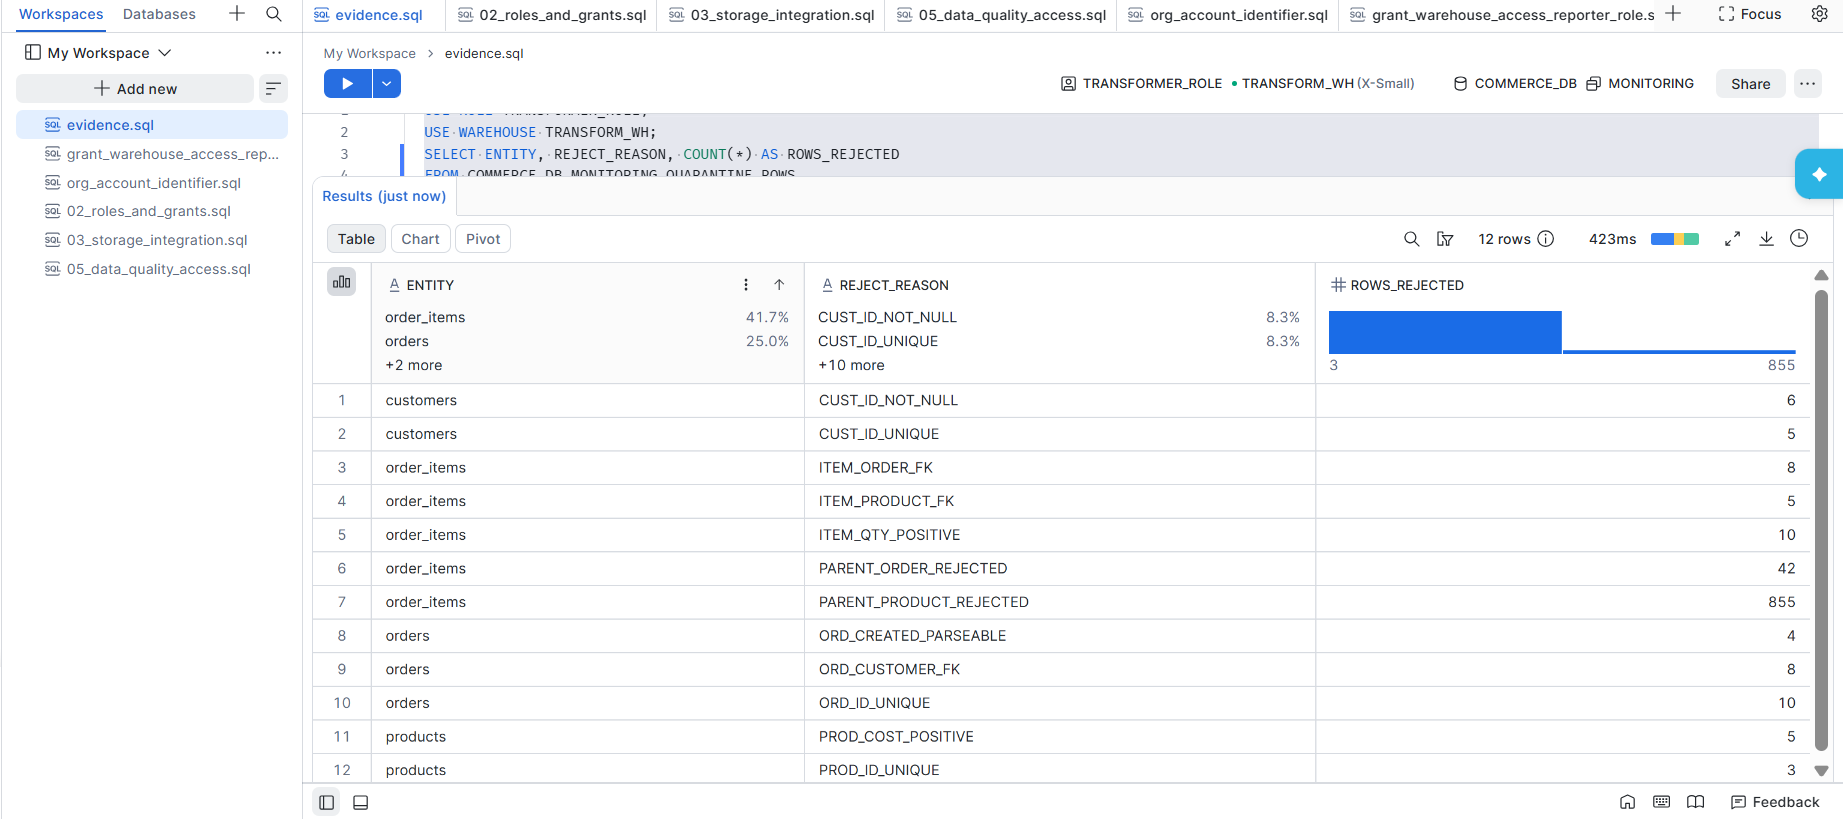
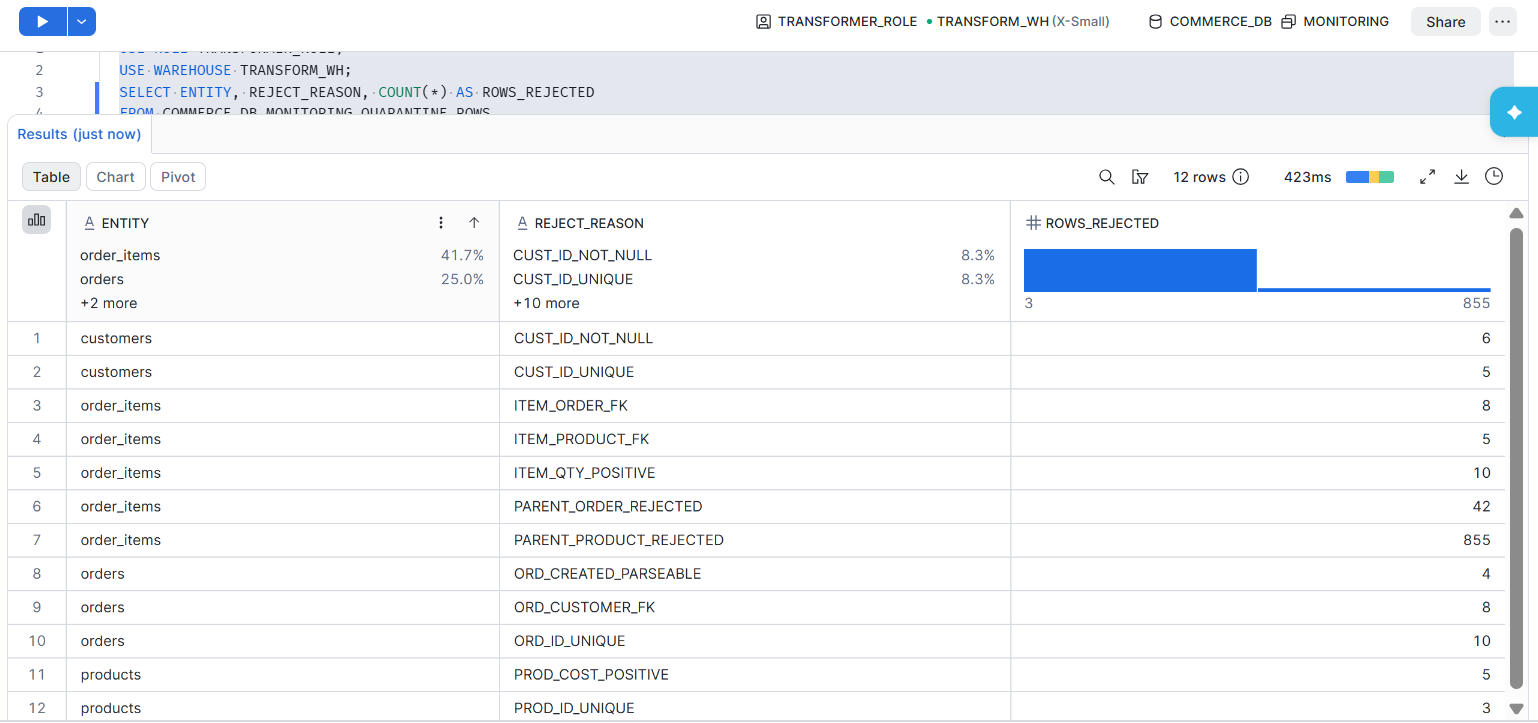
Improve README and evidence screenshots

diff --git a/README.md b/README.md
@@ -1,81 +1,203 @@
-# Commerce ELT data quality platform
+<div align="center">
 
-A data quality and governance framework for a commerce warehouse, built with dbt and run on Snowflake.
+# Commerce ELT Data Quality Platform
 
-Every rule has an owner, a severity and a business reason. Bad rows are quarantined with the rule that rejected them. Tables are only trusted after their gates pass. A rule that could not run counts as a failure, because a check that did not run proves nothing.
+**A governed data quality framework on Snowflake and dbt, with rules that have owners, bad rows that keep their reasons, and checks that are themselves tested.**
 
-![Data quality dashboard from the Snowflake run](screenshots/snowflake/06_dashboard.png)
+[![CI](https://github.com/gbadedata/commerce-elt-platform/actions/workflows/ci.yml/badge.svg)](https://github.com/gbadedata/commerce-elt-platform/actions/workflows/ci.yml)
+![Snowflake](https://img.shields.io/badge/Snowflake-live%20run-29B5E8?logo=snowflake&logoColor=white)
+![dbt](https://img.shields.io/badge/dbt-1.12-FF694B?logo=dbt&logoColor=white)
+![Python](https://img.shields.io/badge/Python-3.11%2B-3776AB?logo=python&logoColor=white)
 
-## Status
+[Results](#results) · [Architecture](#architecture) · [Rules](#rules) · [Governance](#governance) · [Design decisions](#design-decisions) · [Limits](#limits-and-next-steps) · [Run it](#run-it)
 
-| What | State |
-|---|---|
-| Rules, quarantine, reconciliation, catalog and dashboard | Working on Snowflake and on DuckDB |
-| Run on a live Snowflake account | Done on a trial account on 5 November 2026. [Results below](#snowflake-run) |
-| End-to-end tests | Run on DuckDB, in CI on every push, with no secrets |
-| Snowflake alert in `sql/monitoring/dq_alert.sql` | Written, not yet run |
+</div>
 
-The data is synthetic. No real customer or business data is involved.
+A pipeline that finishes has not proved its data is right. This project treats a green run as a claim that needs evidence. Each rule has an owner, a severity and a business reason. Rejected rows are kept with the rule that rejected them. A check that could not run counts as a failure, not a pass.
 
-## How it works
+| 28 | 144 of 144 | 0 | 9 of 9 |
+|:---:|:---:|:---:|:---:|
+| rules across nine dimensions | planted defect rows found | false positives | gates and reconciliations passed on the defect run |
+
+![Data quality dashboard from the Snowflake run](screenshots/snowflake/dashboard_hero.png)
+
+<sub>Dashboard from the live Snowflake run, on synthetic data with defects planted on purpose.</sub>
+
+## Results
+
+The same synthetic data was run on Snowflake and on DuckDB, and every rule found the same rows on both.
+
+| Run | Snowflake | DuckDB |
+|---|---|---|
+| Clean data | 28 of 28 rules pass, exit code 0 | 28 of 28 rules pass, exit code 0 |
+| Planted defects | 144 of 144 found, none wrongly flagged, exit code 2 | 144 of 144 found, none wrongly flagged, exit code 2 |
+| Gates and reconciliation on the defect run | 9 of 9 pass | 9 of 9 pass |
+| Rows quarantined on the defect run | 961 | 961 |
+
+Exit code 2 is the correct result for the defect run, because critical defects were planted. Of the 961 quarantined rows, 855 are order lines held back because their product was rejected, so one bad parent row is not allowed to leave its children looking valid.
+
+**A perfect score here has a narrow meaning.** I planted these defects and wrote the rules for them, so it shows the rules do what they say. It does not predict how they would perform on real data, or catch problems nobody has written a rule for.
+
+### Evidence from the Snowflake run
+
+Click an image to enlarge it. Also see the [row counts loaded](screenshots/snowflake/01_raw_row_counts.png) and the [full dashboard](screenshots/snowflake/06_dashboard.png).
+
+<table>
+<tr>
+<td width="50%"><a href="screenshots/snowflake/02_rule_results.png"><img src="screenshots/snowflake/02_rule_results.png" alt="Latest result for all 28 rules"></a><br><sub><b>Rule results.</b> All 28 rules, with owner, status and failed rows.</sub></td>
+<td width="50%"><a href="screenshots/snowflake/03_quarantine.png"><img src="screenshots/snowflake/03_quarantine.png" alt="Quarantined rows by reason"></a><br><sub><b>Quarantine.</b> Rejected rows, grouped by the rule that rejected them.</sub></td>
+</tr>
+<tr>
+<td width="50%"><a href="screenshots/snowflake/04_reporter_reads_mart.png"><img src="screenshots/snowflake/04_reporter_reads_mart.png" alt="Reporting role reads the mart"></a><br><sub><b>Allowed.</b> The reporting role reads the trusted mart.</sub></td>
+<td width="50%"><a href="screenshots/snowflake/05_reporter_denied_staging.png"><img src="screenshots/snowflake/05_reporter_denied_staging.png" alt="Reporting role refused access to staging"></a><br><sub><b>Refused.</b> The same role cannot read staging, where personal data lives.</sub></td>
+</tr>
+</table>
+
+## Architecture
 
 ```mermaid
 flowchart LR
-    G[generate_data.py] --> R[RAW<br>all text]
-    R --> S[STAGING<br>typed, 17 row rules]
-    S --> I[INTERMEDIATE<br>reject_reason per row]
-    I --> M[MARTS<br>no personal data, 7 gates]
-    I --> Q[MONITORING<br>quarantine_rows]
-    M --> C[Reconciliation<br>raw = marts + quarantine]
-    Q --> C
-    C --> D[dq_results, catalog,<br>dashboard, exit code]
+    SRC["Source files<br/>customers, products,<br/>orders, order lines"] --> RAW
+
+    subgraph SF["Snowflake"]
+        RAW["RAW<br/>text, as received"] --> STG["STAGING<br/>typed, 17 row rules"]
+        STG --> INT["INTERMEDIATE<br/>reject reason per row"]
+        INT --> MART["MARTS<br/>trusted, 7 gates"]
+        INT --> Q["MONITORING<br/>quarantine"]
+    end
+
+    MART --> REC{{"Reconciliation<br/>raw = marts + quarantine"}}
+    Q --> REC
+    REC --> OUT["Results history, catalog,<br/>dashboard, exit code"]
 ```
 
-- **Raw stays text.** A malformed value becomes a finding in staging, rather than a failed load that hides the row.
-- **Staging rules warn, mart gates stop.** A bad source row should not halt every report. A duplicate key in a mart should.
-- **Nothing disappears.** Every raw row ends up in a mart or in quarantine, and a reconciliation test checks both row counts and order value.
-- **Personal data stops at staging.** Failure tables store only row IDs. Marts carry no email or names, and the reporting role cannot read staging.
-- **Exit codes:** `0` healthy, `1` warnings, `2` critical failure or unverified rule, so a scheduler can alert on the result.
+| Layer | What happens | Who can read it |
+|---|---|---|
+| **RAW** | Rows load as text with a batch ID, so a malformed value becomes a finding and not a failed load | Loader and transformer |
+| **STAGING** | Values are typed safely, and row rules run. This is the last layer with personal data | Transformer only |
+| **INTERMEDIATE** | Each row gets a reject reason or none, and duplicates keep the first record received | Transformer only |
+| **MARTS** | Only accepted rows, with no personal data. Gates must pass here | Transformer and reporting |
+| **MONITORING** | Quarantine, failure tables holding row IDs only, results history and a latest-results view | Transformer and reporting |
+
+### What happens to one bad row
+
+Take an order line that arrives with a quantity of `-2`.
+
+1. It loads into `RAW` as text, like every other row.
+2. `ITEM_QTY_POSITIVE` flags its row ID in staging.
+3. `int_order_items_checked` gives it the reject reason `ITEM_QTY_POSITIVE`.
+4. It stays out of `fct_order_items` and appears in `quarantine_rows`.
+5. `RECON_ROW_COUNTS` and `RECON_ORDER_VALUE` confirm that it, and its value, are still accounted for.
+6. The result is recorded against the owner, `sales-data`, and appears on the dashboard. As the rule is critical, the run exits with code 2 for a scheduler to act on.
 
 ## Rules
 
-There are 28 rules across completeness, uniqueness, validity, consistency, integrity, timeliness, volume and reconciliation. Thresholds are dbt variables, and rule metadata lives next to each test in the model YAML.
+| Dimension | Rules | Example |
+|---|---:|---|
+| Completeness | 1 | Every customer record has a customer ID |
+| Uniqueness | 3 | An order ID belongs to only one record |
+| Validity | 7 | A sold quantity is above zero |
+| Consistency | 3 | A discount does not exceed the unit price |
+| Integrity | 3 | An order line points to a received product |
+| Timeliness | 1 | The latest raw batch arrived within the agreed window |
+| Volume | 1 | An order batch has at least the expected number of rows |
+| Reconciliation | 2 | Raw rows equal mart rows plus quarantined rows |
+| Mart gates | 7 | The fact table has no duplicate order lines |
 
-See [the data catalog](docs/data_catalog.md) for owners, definitions, lineage, personal data flags and the business glossary. It is generated from dbt metadata, so it changes with the code.
+<details>
+<summary><b>See all 28 rules</b></summary>
 
-## How the rules were tested
+| Rule | Dimension | Severity | Owner | What it checks |
+|---|---|---|---|---|
+| `CUST_ID_NOT_NULL` | Completeness | Critical | customer-data | Every customer record has a customer ID. |
+| `CUST_ID_UNIQUE` | Uniqueness | Critical | customer-data | A customer ID belongs to only one record. |
+| `ORD_ID_UNIQUE` | Uniqueness | Critical | sales-data | An order ID belongs to only one record. |
+| `PROD_ID_UNIQUE` | Uniqueness | Critical | merchandising-data | A product ID belongs to only one record. |
+| `CUST_COUNTRY_ACCEPTED` | Validity | Warning | customer-data | Country is one of the markets served. |
+| `CUST_CREATED_NOT_FUTURE` | Validity | Warning | customer-data | A customer cannot be created in the future. |
+| `CUST_EMAIL_FORMAT` | Validity | Warning | customer-data | Email addresses have a valid basic format. |
+| `ITEM_QTY_POSITIVE` | Validity | Critical | sales-data | A sold quantity is above zero. |
+| `ORD_CREATED_PARSEABLE` | Validity | Critical | sales-data | The order date can be read as a timestamp. |
+| `ORD_STATUS_ACCEPTED` | Validity | Warning | sales-data | Status is a known lifecycle state. |
+| `PROD_COST_POSITIVE` | Validity | Critical | merchandising-data | A product has a cost above zero, or margin cannot be calculated. |
+| `ITEM_DISCOUNT_LE_PRICE` | Consistency | Warning | finance-data | A discount does not exceed the unit price. |
+| `ORD_UPDATED_AFTER_CREATED` | Consistency | Warning | sales-data | An order is not updated before it was created. |
+| `PROD_PRICE_GE_COST` | Consistency | Warning | merchandising-data | List price is not below cost. |
+| `ITEM_ORDER_FK` | Integrity | Critical | sales-data | An order line points to a received order. |
+| `ITEM_PRODUCT_FK` | Integrity | Critical | sales-data | An order line points to a received product. |
+| `ORD_CUSTOMER_FK` | Integrity | Critical | sales-data | An order customer exists in the customer feed. |
+| `FRESH_RAW_LOAD` | Timeliness | Warning | data-engineering | The latest raw batch arrived within the agreed window. |
+| `ORD_MIN_VOLUME` | Volume | Warning | sales-data | An order batch has at least the expected number of rows. |
+| `RECON_ORDER_VALUE` | Reconciliation | Critical | finance-data | Net value in the fact table plus quarantined value equals the value received, within 0.01. |
+| `RECON_ROW_COUNTS` | Reconciliation | Critical | data-engineering | Every raw row ends up in a mart or in quarantine, so no row is lost silently. |
+| `GATE_DIM_CUSTOMER_KEY_NOT_NULL` | Mart gate | Critical | data-engineering | The customer dimension has no null keys. |
+| `GATE_DIM_CUSTOMER_KEY_UNIQUE` | Mart gate | Critical | data-engineering | The customer dimension has no duplicate keys. |
+| `GATE_DIM_PRODUCT_KEY_NOT_NULL` | Mart gate | Critical | data-engineering | The product dimension has no null keys. |
+| `GATE_DIM_PRODUCT_KEY_UNIQUE` | Mart gate | Critical | data-engineering | The product dimension has no duplicate keys. |
+| `GATE_FCT_CUSTOMER_FK` | Mart gate | Critical | data-engineering | Every named customer on a fact row is trusted. |
+| `GATE_FCT_ITEM_KEY_UNIQUE` | Mart gate | Critical | data-engineering | The fact table has no duplicate order lines. |
+| `GATE_FCT_PRODUCT_FK` | Mart gate | Critical | data-engineering | Every fact row has a trusted product. |
 
-The generator plants known defects and writes a manifest of the affected rows, separately from the rules. `scripts/evaluate_rules.py` then compares what each rule caught with what was planted.
+</details>
 
-| Run on DuckDB, seed 42 | Result |
-|---|---|
-| Clean data | 28 of 28 rules pass, nothing quarantined, exit code 0 |
-| Planted defects | 144 of 144 rows found across 17 rules, no false positives, exit code 2 |
-| Gates and reconciliation on the defect run | All 9 pass, so the bad rows stayed out of the marts |
+**Severity decides what happens.** Warning rules flag rows and let them through, so a questionable but usable value does not hold up reporting. Critical row rules send rows to quarantine. Mart gates and reconciliation fail the dbt run, because a broken key or a lost row should stop people trusting a table.
 
-The tests also damage things on purpose, because a check is only worth trusting once it has been seen failing: a duplicate inserted into a mart, a row deleted from the fact table, a stale load, a low order volume, and a dbt run with missing results.
+| Exit code | Status | Meaning |
+|---:|---|---|
+| 0 | `HEALTHY` | Every rule ran and passed |
+| 1 | `WARN` | Warning rules failed |
+| 2 | `FAIL` | A critical rule failed, or a rule could not be verified |
 
-That testing paid for itself. The first version of the order value reconciliation read an intermediate model instead of the fact table, so it could never fail. Deleting a fact row exposed it, and it is fixed.
+## Testing the checks
 
-**What this does not show.** The planted defects are ones I knew to write rules for, so the perfect score shows the rules do what they say. It does not measure how they would do on real data, or catch problem types nobody has written a rule for. The volumes are small, and the thresholds and owners are illustrative. Real ones would be agreed with the business.
+The generator plants defects and writes down the affected rows in a separate manifest. `scripts/evaluate_rules.py` then compares what each rule caught with what was planted, rule by rule.
 
-## Snowflake run
+A check is only worth trusting once it has been seen failing, so the 19 automated tests also break things on purpose:
 
-Run on a Snowflake trial account with key-pair sign-in, an extra-small warehouse and the same synthetic data. The rule results matched the DuckDB run row for row.
+- insert a duplicate into a mart, and the gate must fail
+- delete a fact row, and both reconciliations must fail
+- simulate a stale load and a low order volume, and those rules must fire
+- remove dbt's results file, and every rule must report as unverified
+- tamper with the manifest, and the evaluation must report a miss and a false alarm
 
-| Check | Result |
-|---|---|
-| Data loaded with `PUT` and `COPY INTO` | [2,000 customers, 200 products, 10,010 orders, 30,094 order lines](screenshots/snowflake/01_raw_row_counts.png) |
-| Planted defects | [144 of 144 rows found across 17 rules](screenshots/snowflake/02_rule_results.png), no false positives |
-| Gates and reconciliation | All 9 pass, with [961 rows quarantined by reason](screenshots/snowflake/03_quarantine.png) |
-| Reporting role reads the mart | [29,174 rows](screenshots/snowflake/04_reporter_reads_mart.png) |
-| Reporting role reads staging, where personal data lives | [Refused](screenshots/snowflake/05_reporter_denied_staging.png), which is the intended result |
+This found a real bug. My first order value reconciliation read an intermediate model instead of the fact table, so it could never fail. Deleting a fact row exposed it, and it now reads the table it claims to check.
 
-The service user runs with secondary roles switched off, so loading and transforming each use one role only. Snowflake turns those on by default for new users, which would have blurred the separation and could have made the access test meaningless.
+The tests run in [GitHub Actions](https://github.com/gbadedata/commerce-elt-platform/actions/workflows/ci.yml) on every push, using DuckDB and no secrets.
+
+## Governance
+
+- **Ownership:** every rule and model has a named owner, and a test fails if the catalog shows a model without one.
+- **Definitions:** a [business glossary](governance/business_glossary.yml) defines terms such as Net Order Value and Quarantined Row. A test fails if a term points at a column that does not exist.
+- **Lineage and metadata:** the [data catalog](docs/data_catalog.md) is generated from dbt metadata, with upstream and downstream models, grain and personal data flags, so it changes with the code.
+- **Personal data:** columns are tagged in the model metadata. A test fails if any tagged column appears in marts or monitoring tables.
+- **Access:** separate load, transform and reporting roles. The service user signs in with a key pair and has secondary roles switched off. Snowflake turns those on by default for new users, which would let each step use every role the user holds.
+
+## Design decisions
+
+| Decision | Why | Trade-off |
+|---|---|---|
+| Keep raw data as text | A bad value becomes a visible finding, not a failed load that hides the row | Typing work moves to staging |
+| Warn on row rules, stop at marts | One bad source row should not halt all reporting, but a broken mart should not be trusted | Warned rows reach marts until the owner acts |
+| Quarantine instead of dropping | Every rejected row stays countable and explainable | Someone has to own the queue |
+| Treat unverified as failed | A check that did not run proves nothing | Platform problems look like data failures until investigated |
+| Hold back children of rejected parents | An order line for a rejected product cannot be reported reliably | One bad product can quarantine many lines |
+| Test in CI on DuckDB | Fast, free and needs no secrets | Cannot catch Snowflake differences, which is why it also ran live, with engine-specific SQL kept in macros |
+
+## Limits and next steps
+
+This is a portfolio project on synthetic data, not a production system.
+
+- **Scale:** about 42,000 rows on one extra-small warehouse. Performance at volume is untested.
+- **Loading:** each run replaces the raw tables and rebuilds the models. Production would need incremental loads.
+- **Scheduling:** runs are started by hand. The exit codes are ready for a scheduler, but none is set up.
+- **Alerting:** the Snowflake alert in `sql/monitoring/dq_alert.sql` is written but has not been run.
+- **Replay:** quarantined rows are explained and counted, but there is no automated way to replay them after a fix.
+- **Thresholds and owners:** these are illustrative. Real ones would be agreed with the business.
+- **S3 route:** `sql/setup/03` and `04` are from an earlier S3 setup that this flow does not use.
 
 ## Run it
 
-Needs Python 3.11 or later. No Snowflake account is needed for the local run.
+**Locally, with no account.** Needs Python 3.11 or later.
 
 ```bash
 python -m venv .venv && source .venv/bin/activate
@@ -86,15 +208,23 @@ python scripts/run_pipeline.py --mode defects    # exit code 2, on purpose
 pytest -q
 ```
 
-Then open `reports/dq_dashboard.html`. To run on Snowflake, follow [the runbook](docs/RUNBOOK_SNOWFLAKE.md).
+Then open `reports/dq_dashboard.html`.
 
-## Layout
+**On Snowflake.** Follow [the runbook](docs/RUNBOOK_SNOWFLAKE.md), which covers the trial account, key pair, setup SQL and evidence queries. Warehouses suspend after 30 seconds, and a resource monitor sets a limit of 5 credits.
 
-| Path | Contents |
-|---|---|
-| `commerce_dbt/` | Models, generic rule macros, reconciliation and freshness tests |
-| `scripts/` | Generator, loader, results publisher, rule evaluation, catalog, dashboard, health check |
-| `governance/` | Business glossary |
-| `sql/setup/` | Snowflake database, role-based access, service user. Files `03` and `04` are an earlier S3 route that this flow does not use |
-| `sql/monitoring/` | Snowflake alert and evidence queries |
-| `tests/` | End-to-end tests, run in CI with no secrets |
+## Repository layout
+
+```text
+commerce_dbt/      Models, rule macros, reconciliation and freshness tests
+scripts/           Generator, loader, results publisher, evaluation, catalog, dashboard, health check
+governance/        Business glossary
+docs/              Generated data catalog and Snowflake runbook
+sql/setup/         Database, roles, warehouses and service user
+sql/monitoring/    Snowflake alert and evidence queries
+tests/             End-to-end tests, run in CI
+screenshots/       Evidence from the Snowflake run
+```
+
+---
+
+Built by **Oluwagbade Odimayo** · [Portfolio](https://gbadedata.com) · [LinkedIn](https://www.linkedin.com/in/oluwagbade-odimayo-)
